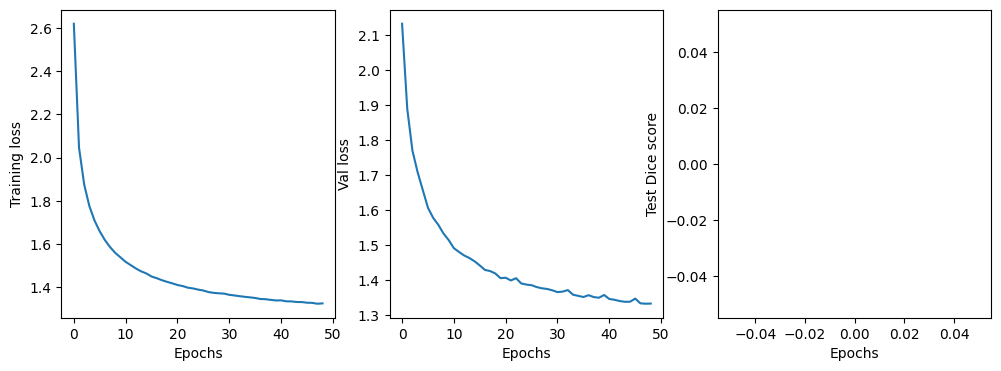
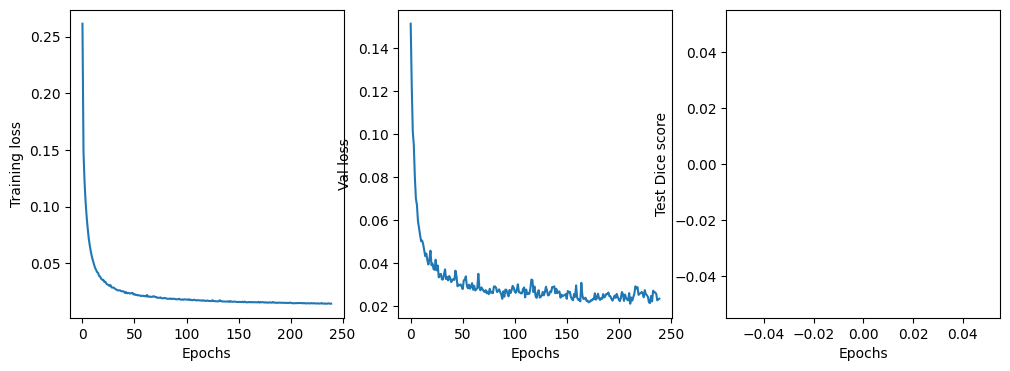
switched back to segmentation based traces. Result is not very good, might have been overtrained.

diff --git a/forward_gentrain.py b/forward_gentrain.py
@@ -413,56 +413,26 @@ class GenTrain():
         # Optional random rotation to make examples more general
         if np.random.rand() < 0.5:
             from scipy.ndimage import rotate
-            angle = np.random.uniform(-15, 15)
+            angle = np.random.uniform(-5, 5)
             omode = rotate(omode, angle, reshape=False, order=0)
             xmode = rotate(xmode, angle, reshape=False, order=0)
             multihop_map = rotate(multihop_map, angle, reshape=False, order=0)
-            O_trace = rotate(O_trace, angle, reshape=False, order=0)
-            X_trace = rotate(X_trace, angle, reshape=False, order=0)
             omode_clean = rotate(omode_clean, angle, reshape=False, order=0)
             xmode_clean = rotate(xmode_clean, angle, reshape=False, order=0)
 
-        opres = (np.sum(O_trace,axis=0)>0).astype(np.int_)
-        xpres = (np.sum(X_trace,axis=0)>0).astype(np.int_)
-
-        if np.sum(opres) > 2/3 * self.freqs.shape[0] and np.random.rand() < 0.10:
+        if np.sum(np.sum(omode_clean, axis=0) > 0) > 2/3 * self.freqs.shape[0] and np.random.rand() < 0.10:
             crop_idx = np.random.randint(int(0.1 * self.freqs.shape[0]), int(0.4 * self.freqs.shape[0]))
-            opres[:crop_idx] = 0
-            xpres[:crop_idx] = 0
-            O_trace[:, :crop_idx] = 0
-            X_trace[:, :crop_idx] = 0
+            omode[:, :crop_idx] = 0
+            xmode[:, :crop_idx] = 0
+            omode_clean[:, :crop_idx] = 0
+            xmode_clean[:, :crop_idx] = 0
 
         if np.random.uniform(0,1) < 0.05:# 0.05: # 5% chance negative data
             omode = np.zeros(omode.shape, dtype=np.uint8)
             xmode = np.zeros(xmode.shape, dtype=np.uint8)
+            omode_clean = np.zeros(omode_clean.shape, dtype=np.uint8)
+            xmode_clean = np.zeros(xmode_clean.shape, dtype=np.uint8)
             multihop_map = np.zeros(multihop_map.shape, dtype=np.uint8)
-            opres *= 0
-            xpres *= 0
-
-        ovhidx = np.zeros(self.freqs.shape[0], dtype=np.int_)
-        xvhidx = np.zeros(self.freqs.shape[0], dtype=np.int_)
-        for i in range(self.freqs.shape[0]):
-            if opres[i] != 0:
-                nz = np.nonzero(O_trace[:, i])[0]
-                if len(nz) > 0:
-                    ovhidx[i] = int(np.median(nz))
-            if xpres[i] != 0:
-                nz = np.nonzero(X_trace[:, i])[0]
-                if len(nz) > 0:
-                    xvhidx[i] = int(np.median(nz))
-
-        # Calculate Gaussian sigmas (trace width) for each frequency column
-        ovh_sigma = np.zeros(self.freqs.shape[0])
-        xvh_sigma = np.zeros(self.freqs.shape[0])
-        for i in range(self.freqs.shape[0]):
-            if opres[i] != 0:
-                o_indices = np.nonzero(omode_clean[:, i])[0]
-                if len(o_indices) > 0:
-                    ovh_sigma[i] = np.std(o_indices)**0.8
-            if xpres[i] != 0:
-                x_indices = np.nonzero(xmode_clean[:, i])[0]
-                if len(x_indices) > 0:
-                    xvh_sigma[i] = np.std(x_indices)**0.8
 
         fig,axes = plt.subplots(1,4,figsize=(23.0,6.0),sharex=False)
         ax1 = axes[0]
@@ -481,32 +451,16 @@ class GenTrain():
 
         ax2 = axes[1]
         
-        # Generate Gaussian soft-labels for visualization
-        y_grid = np.arange(self.hts.shape[0])[:, None]
-        safe_osigma = np.maximum(ovh_sigma, 0.5)
-        safe_xsigma = np.maximum(xvh_sigma, 0.5)
-        
-        pdf_o = np.exp(-0.5 * ((y_grid - ovhidx[None, :]) / safe_osigma[None, :])**2) * opres[None, :]
-        pdf_x = np.exp(-0.5 * ((y_grid - xvhidx[None, :]) / safe_xsigma[None, :])**2) * xpres[None, :]
-        
-        # Mask near-zero probabilities to make them transparent
-        pdf_o_plot = np.where(pdf_o > 0.01, pdf_o, np.nan)
-        pdf_x_plot = np.where(pdf_x > 0.01, pdf_x, np.nan)
-
-        # Plot O-mode: Grey background mask + Gaussian overlay + Tiny red peak scatter
-        ax2.imshow(np.vstack([opres]*self.hts.shape[0]), cmap='Greys', alpha=0.3, origin='lower', interpolation='nearest')
-        ax2.imshow(pdf_o_plot, cmap='viridis', origin='lower', interpolation='nearest')
-        ax2.scatter(np.arange(opres.shape[0]), ovhidx, s=0.5, c='red', alpha=0.70)
-        ax2.set_title('O-mode Gaussian Label')
+        # Plot O-mode Segmentation Mask
+        ax2.imshow(omode_clean > 0, cmap='viridis', origin='lower', interpolation='nearest')
+        ax2.set_title('O-mode Mask')
         ax2.set_xlim(0, self.freqs.shape[0])
         ax2.set_ylim(0, self.hts.shape[0])
 
         ax3 = axes[2]
-        # Plot X-mode: Grey background mask + Gaussian overlay + Tiny red peak scatter
-        ax3.imshow(np.vstack([xpres]*self.hts.shape[0]), cmap='Greys', alpha=0.3, origin='lower', interpolation='nearest')
-        ax3.imshow(pdf_x_plot, cmap='viridis', origin='lower', interpolation='nearest')
-        ax3.scatter(np.arange(xpres.shape[0]), xvhidx, s=0.5, c='red', alpha=0.70)
-        ax3.set_title('X-mode Gaussian Label')
+        # Plot X-mode Segmentation Mask
+        ax3.imshow(xmode_clean > 0, cmap='viridis', origin='lower', interpolation='nearest')
+        ax3.set_title('X-mode Mask')
         ax3.set_xlim(0, self.freqs.shape[0])
         ax3.set_ylim(0, self.hts.shape[0])
 
@@ -524,9 +478,8 @@ class GenTrain():
             imgTrain.save(f"{self.training_dir}/train/{file_name}")
             
             np.save(f"{self.training_dir}/npy/{file_name}", {
-                'opres':opres, 'xpres':xpres, 
-                'ovhidx':ovhidx, 'xvhidx':xvhidx,
-                'osigma':ovh_sigma, 'xsigma':xvh_sigma
+                'omode_mask': (omode_clean>0).astype(np.uint8),
+                'xmode_mask': (xmode_clean>0).astype(np.uint8)
             })
             # omode_data = np.zeros((*omode.shape,3), dtype=np.uint8)
             # omode_data[:,:,0] = np.flip(O_trace>0,axis=0) * 255
@@ -579,7 +532,7 @@ if __name__ == "__main__":
 
     gt.graph_generate(fes, Z, dz, savedata = False)
 
-    if False:
+    if True:
         from joblib import Parallel, delayed
         import multiprocessing as mp
 

diff --git a/model_train.py b/model_train.py
@@ -10,6 +10,7 @@ import glob
 # from utils.dice_score import dice_coeff
 # from utils.loss_functions import BCE_MSE
 # from utils.loss_functions import CE_by_col
+from utils.loss_functions import DBCEF
 
 from unet import UNet
 
@@ -37,7 +38,7 @@ def checkpoint_eval(model, epoch_num, i, val_losses, test_losses, losses):
         inputs, labels = data['image'], data['gt']
         inputs, labels = inputs.to(device), labels.to(device)
         outputs = model(inputs)    
-        loss  = ce_criterion(outputs.reshape(-1, outputs.shape[-1]), labels.reshape(-1, labels.shape[-1]))            
+        loss = criterion(outputs[:, 0:2, :, :], labels[:, 0, :, :].long()) + criterion(outputs[:, 2:4, :, :], labels[:, 1, :, :].long())
         val_loss += loss.item()
         del inputs; del labels
     avg_val_loss = val_loss / len(val_loader)
@@ -69,11 +70,10 @@ def checkpoint_eval(model, epoch_num, i, val_losses, test_losses, losses):
     'test_loss': test_losses,
     'val_loss': val_losses,
     'train_loss': losses,
-    }, f'{save_model_path}/CEbycol_VTonly_40ktrain_GuassLabel_epoch_{epoch_num + 1}_{(i+1)*batch_size}_loss{test_loss:.4f}.pth')
+    }, f'{save_model_path}/BCE_VTonly_40ktrain_SegLabel_epoch_{epoch_num + 1}_{(i+1)*batch_size}_loss{test_loss:.4f}.pth')
 
 @torch.no_grad()
 def test_on_binary_ionograms(model, epoch_num):    
-    softmax = nn.Softmax(dim=-1)
     with torch.inference_mode():
         img = []
         filename = []
@@ -92,10 +92,8 @@ def test_on_binary_ionograms(model, epoch_num):
         for i in range(batch_size):
             img1,label1 = img[i],label[i]
             label1 = label1.squeeze().to('cpu')
-            # imgO = torch.argmax(label1[0:2,:,:],dim=0).detach().numpy()
-            # imgX = torch.argmax(label1[2:4,:,:],dim=0).detach().numpy()
-            imgO = softmax(label1[0,:,:]).detach().numpy()
-            imgX = softmax(label1[1,:,:]).detach().numpy()
+            imgO = torch.argmax(label1[0:2,:,:], dim=0).detach().numpy()
+            imgX = torch.argmax(label1[2:4,:,:], dim=0).detach().numpy()
 
             fig, axs = plt.subplots(ncols=4, nrows=1, figsize=(20, 5))
             plt.title(f'epoch{epoch_num}_{filename[i]}')
@@ -152,7 +150,7 @@ else: resize = None
 
 
 
-model = UNet(n_channels=1, n_classes=2, input_size=target_size, in_dropout_p = 0.3, dropout_p=0.3)
+model = UNet(n_channels=1, n_classes=4, input_size=target_size, in_dropout_p = 0.3, dropout_p=0.3)
 
 model = model.to(device=device)
 model.train()
@@ -163,11 +161,11 @@ momentum = 0.2
 gradient_clipping = 1.0
 
 optimizer = AdamW(model.parameters(), lr=learning_rate, weight_decay=weight_decay)
-# dbcefloss = DBCEF()
-# dbcefloss = dbcefloss.to(device=device)
+dbcefloss = DBCEF()
+dbcefloss = dbcefloss.to(device=device)
 # bcemseloss = (BCE_MSE(beta_bce=0.2)).to(device=device)
 # ce_by_col = CE_by_col().to(device=device)
-ce_criterion = nn.CrossEntropyLoss()
+criterion = dbcefloss
 
 epochs = 120
 epoch_elapsed = 0
@@ -175,14 +173,14 @@ losses = []
 val_losses = []
 test_losses = []
 
-# load_checkpoint = torch.load(save_model_path+'CEbycol_VTonly_40ktrain_GuassLabel_epoch_80_36000_loss0.0000.pth')
-# model.load_state_dict(load_checkpoint['model_state_dict'])
-# optimizer.load_state_dict(load_checkpoint['optimizer_state_dict']) 
-# epoch_elapsed = load_checkpoint['epoch']+1
-# test_losses   = load_checkpoint['test_loss']
-# val_losses    = load_checkpoint['val_loss']
-# losses   = load_checkpoint['train_loss']
-# print('epoch_elapsed: ', epoch_elapsed)
+load_checkpoint = torch.load(save_model_path+'BCE_VTonly_40ktrain_SegLabel_epoch_120_36000_loss0.0000.pth')
+model.load_state_dict(load_checkpoint['model_state_dict'])
+optimizer.load_state_dict(load_checkpoint['optimizer_state_dict']) 
+epoch_elapsed = load_checkpoint['epoch']+1
+test_losses   = load_checkpoint['test_loss']
+val_losses    = load_checkpoint['val_loss']
+losses   = load_checkpoint['train_loss']
+print('epoch_elapsed: ', epoch_elapsed)
 
 checkpoint_N = len(train_loader) / 1 # Check point every half epoch
 
@@ -199,7 +197,7 @@ for epoch in range(epoch_elapsed,epoch_elapsed+epochs):
             outputs = model(inputs)
             # print('outputs shape',outputs.shape)
             # break
-            loss = ce_criterion(outputs.reshape(-1, outputs.shape[-1]), labels.reshape(-1, labels.shape[-1]))
+            loss = criterion(outputs[:, 0:2, :, :], labels[:, 0, :, :].long()) + criterion(outputs[:, 2:4, :, :], labels[:, 1, :, :].long())
             loss.backward()
             optimizer.step()
             running_loss += loss.item()

diff --git a/fakeionogramdatasetOX.py b/fakeionogramdatasetOX.py
@@ -54,50 +54,17 @@ class ParabolaIonoDatasetOX(Dataset):
 
         data = np.load(self.gt_dir + self.img_names[idx] + '.npy', allow_pickle=True)[()]
 
-        ovhidx = torch.from_numpy(data['ovhidx']).float()
-        xvhidx = torch.from_numpy(data['xvhidx']).float()
-
-        # Load sigmas (clamping removed, forward model guarantees minimum width of 0.5 for valid traces)
-        osigma = torch.from_numpy(data['osigma']).float()
-        xsigma = torch.from_numpy(data['xsigma']).float()
+        target_o = torch.from_numpy(data['omode_mask']).float()[None,:,:]
+        target_x = torch.from_numpy(data['xmode_mask']).float()[None,:,:]
         
-        # Load presence masks (needed for fallback)
-        opres = torch.from_numpy(data['opres']).float()
-        xpres = torch.from_numpy(data['xpres']).float()
-
-        # Create Gaussian soft labels
-        # ovhidx contains heights (0 to 511). We dynamically use the image's height axis dimension.
-        num_classes = image.shape[2] 
-        y_axis = torch.arange(num_classes).float()
-        
-        gaussian_o = torch.exp(-0.5 * ((y_axis.unsqueeze(0) - ovhidx.unsqueeze(1)) / osigma.unsqueeze(1))**2)
-        gaussian_x = torch.exp(-0.5 * ((y_axis.unsqueeze(0) - xvhidx.unsqueeze(1)) / xsigma.unsqueeze(1))**2)
-        
-        # Normalize so probabilities sum to 1
-        pdf_o = gaussian_o / (gaussian_o.sum(dim=-1, keepdim=True) + 1e-8)
-        pdf_x = gaussian_x / (gaussian_x.sum(dim=-1, keepdim=True) + 1e-8)
-        
-        # Fall back to a strict target [1, 0, 0...] at bin 0 for empty columns or missing trace pixels (sigma=0)
-        zero_label = torch.zeros(num_classes).float()
-        zero_label[0] = 1.0
-        
-        pdf_o = torch.where(((opres == 0) | (osigma == 0.0)).unsqueeze(1), zero_label.unsqueeze(0), pdf_o)
-        pdf_x = torch.where(((xpres == 0) | (xsigma == 0.0)).unsqueeze(1), zero_label.unsqueeze(0), pdf_x)
-        
-        soft_label_o = pdf_o.unsqueeze(0)
-        soft_label_x = pdf_x.unsqueeze(0)
+        target_o = torch.permute(target_o, (0,2,1))
+        target_x = torch.permute(target_x, (0,2,1))
 
         # random crop and resize on both image and labels
-        cropped = self.cropresize(torch.cat([image, soft_label_o, soft_label_x], dim=0))
+        cropped = self.cropresize(torch.cat([image, target_o, target_x], dim=0))
         image = cropped[0:1,:,:]
-        
-        # Extract the cropped soft labels (we completely drop the old argmax logic!)
         target_o = cropped[1:2,:,:]
         target_x = cropped[2:3,:,:]
-        
-        # Re-normalize just in case the cropresize interpolation slightly altered the sums
-        target_o = target_o / (target_o.sum(dim=-1, keepdim=True) + 1e-8)
-        target_x = target_x / (target_x.sum(dim=-1, keepdim=True) + 1e-8)
 
         target = {}
         target["image"] = image
